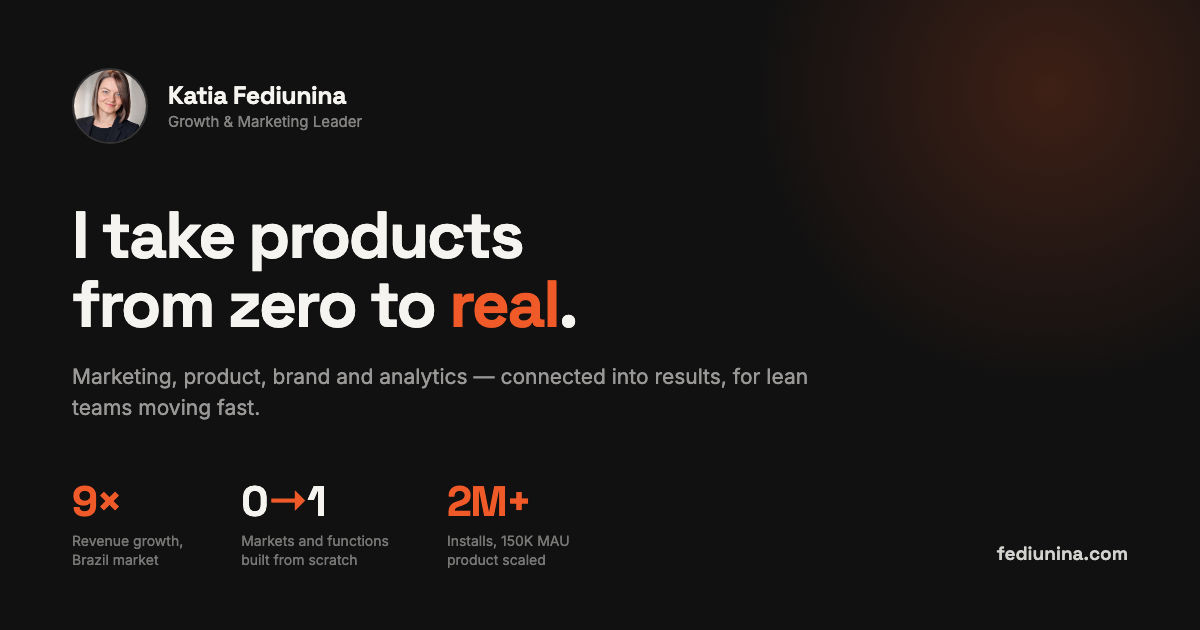
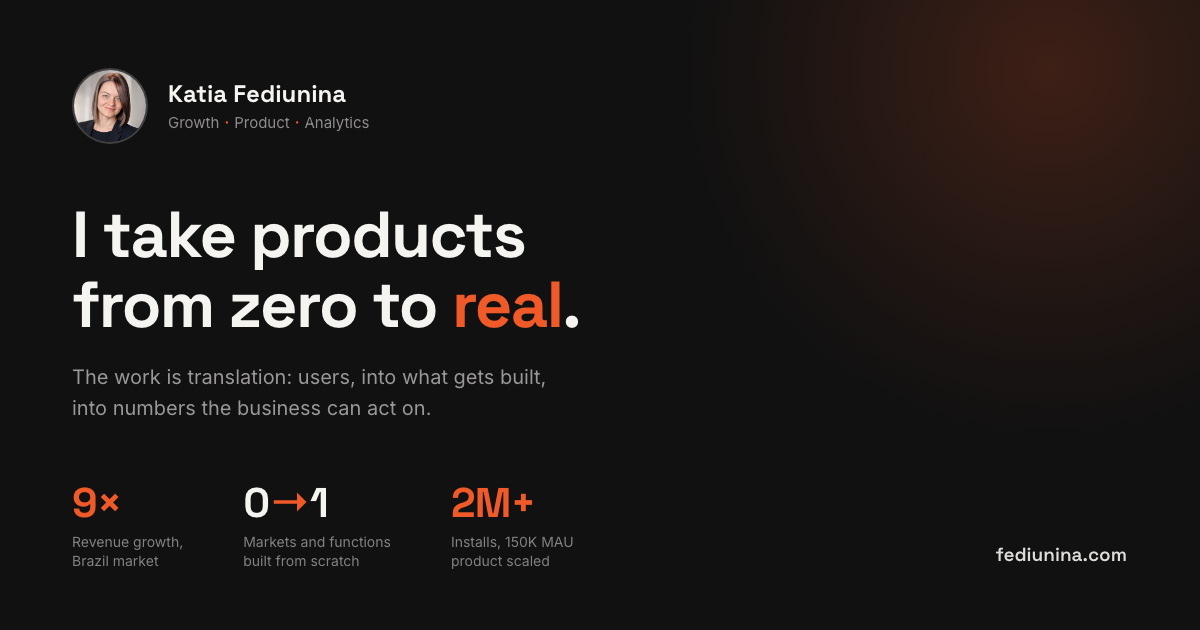
Sync site with September CV
- DocDoc: split +40% orders (web-to-app) and +20% revenue (clinic terms)
- Flowwow: checkout fix from UX testing, board reporting, categories, AEM vs SKAN, team
- Ornament: 40+ interviews, team of seven, US vs LATAM, three-way measurement, monetization
- Earlier roles named; Pinterest, BigQuery, SQL, Cursor, speaking added
- Independent entry links to the Consulting tab; CIS removed
- New og-image (Growth · Product · Analytics), cache-busted to v=3

diff --git a/index.html b/index.html
@@ -26,7 +26,7 @@
   <meta name="viewport" content="width=device-width, initial-scale=1.0">
   <title>Katia Fediunina · Growth, Product and Analytics</title>
   <link rel="canonical" href="https://www.fediunina.com/">
-  <meta name="description" content="Marketing, product and analytics in one person. 15+ years building consumer products in Brazil, LATAM, Europe and the CIS. I find what actually limits growth.">
+  <meta name="description" content="Marketing, product and analytics in one person. 15+ years building consumer products in Brazil, LATAM and Europe. I find what actually limits growth.">
 
   <script type="application/ld+json">
   {
@@ -50,7 +50,7 @@
   <meta property="og:url" content="https://www.fediunina.com/">
   <meta property="og:title" content="Katia Fediunina · Growth, Product and Analytics">
   <meta property="og:description" content="The work is translation: talking to users, turning that into what gets built, and turning that into numbers the business can act on. Market entry and product growth for global consumer products.">
-  <meta property="og:image" content="https://www.fediunina.com/og-image.png?v=2">
+  <meta property="og:image" content="https://www.fediunina.com/og-image.png?v=3">
   <meta property="og:image:width" content="1200">
   <meta property="og:image:height" content="630">
   <meta property="og:image:alt" content="Katia Fediunina. Growth, product and analytics. 9x revenue growth in Brazil, markets built from zero, 2M+ installs.">
@@ -58,7 +58,7 @@
   <meta name="twitter:card" content="summary_large_image">
   <meta name="twitter:title" content="Katia Fediunina · Growth, Product and Analytics">
   <meta name="twitter:description" content="The work is translation: users, into what gets built, into numbers the business can act on. Market entry and product growth for global consumer products.">
-  <meta name="twitter:image" content="https://www.fediunina.com/og-image.png?v=2">
+  <meta name="twitter:image" content="https://www.fediunina.com/og-image.png?v=3">
 
   <link rel="preconnect" href="https://fonts.googleapis.com">
   <link rel="preconnect" href="https://fonts.gstatic.com" crossorigin>
@@ -663,6 +663,7 @@
       margin-bottom: 4px;
     }
     .exp-date { font-size: 13px; color: var(--muted); margin-bottom: 14px; }
+    .exp-link { color: inherit; text-decoration: underline; text-underline-offset: 3px; }
     .exp-context { font-size: 14px; color: rgba(245,244,240,0.55); margin-bottom: 18px; line-height: 1.6; }
     .exp-points { list-style: none; }
     .exp-points li {
@@ -1059,7 +1060,7 @@
           </div>
           <div class="stat-block">
             <div class="stat-num"><span class="accent">+40%</span></div>
-            <div class="stat-label">in orders from the web-to-app journey, and +20% in revenue</div>
+            <div class="stat-label">in orders per user from web-to-app, and +20% in revenue after renegotiating clinic terms</div>
           </div>
         </div>
         <div class="hero-ctas">
@@ -1297,7 +1298,7 @@
       <div class="exp-block reveal">
         <h3 class="exp-role">Independent: growth consulting and interpreting</h3>
         <p class="exp-date">Jan 2026 to present · Porto</p>
-        <p class="exp-context">Growth and launch consulting for early-stage companies, and interpreting between Russian and Portuguese at notarial signings. Consulting is a side line I intend to keep. The main thread is the search for the next full-time role: one product, for at least two to three years, done properly rather than quickly.</p>
+        <p class="exp-context">Growth and launch consulting for early-stage companies, and interpreting between Russian and Portuguese at notaries and the civil registry. Looking for someone senior for a part-time engagement? <a href="#top" class="exp-link" data-open-tab="consulting">See how I consult →</a></p>
       </div>
 
       <div class="exp-block reveal">
@@ -1307,9 +1308,13 @@
         <ul class="exp-points">
           <li>9× revenue growth in 2024, then 3× growth in 2025 over 2024</li>
           <li>Expanded to 17 Brazilian states and grew the partner network to 450+ stores</li>
-          <li>Surfaced and helped fix an app UX issue around delivery-date filtering that lifted in-app revenue by ~40%, on a channel worth about 17% of total revenue</li>
+          <li>Owned Brazil end to end and reported to the Flowwow Brasil CEO, then directly to the global board (COO, CFO, CPO)</li>
+          <li>Users showed me the problem during UX testing: they picked a date and a gift, then learned at checkout the shop could not deliver. I took it to the product and dev teams to fix. In-app revenue rose by about 40%, on a channel worth about 17% of total revenue</li>
           <li>Recruited research participants who had actually bought flowers online in the previous six months, then built creative from the language of the heaviest buyers rather than from a brief</li>
           <li>Built localized positioning and tone that earned trust in a high-scam-perception market</li>
+          <li>Tested new categories, including plants, balloons, bento cakes and gift baskets (cestas de presentes). Cut the ones that did not hold and scaled the one that did: gift baskets grew to about 40% of GMV</li>
+          <li>Tested Meta AEM against SKAdNetwork on the web-to-app funnel and ran mostly AEM, which performed better at our volume, cross-checked against the deterministic web data</li>
+          <li>Managed 3-4 direct reports and three agencies, and directed the work of about ten people from the global SEO, analytics and design teams who did not report to me</li>
         </ul>
       </div>
 
@@ -1318,11 +1323,13 @@
         <p class="exp-date">Feb 2020 to Aug 2022 · Remote</p>
         <p class="exp-context">Digital health app, 2M+ installs and 150K MAU at peak. Built the growth function from scratch and expanded into positioning, monetization, and lifecycle.</p>
         <ul class="exp-points">
-          <li>Found the first audience by interviewing the heaviest users. When that audience ran out, switched to people who had never used the product and people who dropped off — and that switch is what produced the repositioning, from a niche audience (biohackers, pregnancy, chronic conditions) to mainstream wellbeing</li>
+          <li>Found the first audience by interviewing the heaviest users, 40+ interviews in all. When that audience ran out, switched to people who had never used the product and people who dropped off — and that switch is what produced the repositioning, from a niche audience (biohackers, pregnancy, chronic conditions) to mainstream wellbeing</li>
           <li>Same budget, 5× the users and a 4× reduction in CPA</li>
+          <li>Ran paid acquisition myself for about a year before the first hire, then built a team of seven and four external agencies</li>
+          <li>Tested the US and put the money into Latin America, where the unit economics could get to profitable. The US was more saturated, more expensive and more regulated for a health product</li>
           <li>When Apple's tracking rules changed, worked with the product team on the opt-in onboarding screen, because the quality of every marketing number now depended on a product surface I did not own</li>
-          <li>Built the foundation for subscription revenue and lifecycle engagement</li>
-          <li>Led the work based on 40+ user interviews. Managed a team of seven plus a freelancer, and four external agencies</li>
+          <li>Measured every campaign three ways: the ad platform, server-side conversion events and our own database, so no single number stood in for the whole</li>
+          <li>Owned monetization and activation: pricing experiments, subscription rollout across markets, activation moments and lifecycle push built on behaviour</li>
         </ul>
       </div>
 
@@ -1331,10 +1338,22 @@
         <p class="exp-date">Jul 2017 to Feb 2020 · Moscow</p>
         <p class="exp-context">Largest medtech platform in Russia for doctor search, booking, and telemedicine.</p>
         <ul class="exp-points">
-          <li>+40% in orders and +20% in revenue through cohort-based decision making and web-to-app optimization</li>
+          <li>Moved growth decisions from order counts to cohort and LTV logic. App users ordered far more, so I built the web-to-app funnel: +40% in orders per user over a cohort year</li>
+          <li>Most of those extra orders were repeat visits that earned almost nothing under the clinic agreements. Renegotiated the terms: +20% in revenue</li>
           <li>Ran brand campaigns with no install link, to measure the demand no ad platform reports. A large share of installs came from people who never clicked and searched the app by name instead — checked against our own booking records</li>
-          <li>Built the lifecycle and push programme, including an abandoned-search trigger measured against a held-out control group. It deliberately never named the specialty someone had searched for: it is a person's health, and being able to see something is not a reason to say it</li>
-          <li>Earlier mobile and digital roles drove 4M+ installs across paid and organic</li>
+          <li>Built the lifecycle and push programme, including an abandoned-search trigger tested against a held-out control group. Rolled winning tests out to the full audience, which grew repeat orders and cross-sales into other products such as telemedicine</li>
+          <li>Worked both sides of the marketplace, patients and clinics, and the launch of telemedicine, a category with almost no demand and a real need underneath</li>
+        </ul>
+      </div>
+
+      <div class="exp-block reveal">
+        <h3 class="exp-role">Earlier: Anews, Grape International, RBS Corporation</h3>
+        <p class="exp-date">2009 to 2017 · Moscow</p>
+        <p class="exp-context">4M+ installs across paid and organic channels.</p>
+        <ul class="exp-points">
+          <li>Anews, a news aggregator backed by TMT Investments: joined before launch and ran app marketing, ASO and paid acquisition. Launched in the US as a short test, then prioritised Latin America on unit economics</li>
+          <li>Grape International: hired as the single marketer to launch two messengers for the US market, Grape and then Ping. Coverage in TNW, and the first Facebook mobile ad campaigns</li>
+          <li>RBS Corporation, a digital agency: my one fully B2B role, marketing the agency's services and SaaS tools such as Webvisor. Started in PR as press secretary</li>
         </ul>
       </div>
 
@@ -1392,6 +1411,7 @@
             <span class="tag">Google</span>
             <span class="tag">Apple Search Ads</span>
             <span class="tag">TikTok</span>
+            <span class="tag">Pinterest</span>
             <span class="tag">ASO</span>
             <span class="tag">SEO</span>
             <span class="tag">CRM/push</span>
@@ -1416,7 +1436,9 @@
             <span class="tag">Jira</span>
             <span class="tag">Confluence</span>
             <span class="tag">Figma</span>
-            <span class="tag">SQL with AI</span>
+            <span class="tag">BigQuery</span>
+            <span class="tag">SQL</span>
+            <span class="tag">Cursor</span>
           </div>
         </div>
 
@@ -1433,6 +1455,9 @@
       </div>
 
       <p class="languages reveal">
+        <strong>Speaking:</strong> ASO Academy lecture on app localisation for LATAM &nbsp;·&nbsp; i-COM 2016 &nbsp;·&nbsp; Mobile Marketing Conference 2015
+      </p>
+      <p class="languages reveal" style="margin-top:0;border-top:none;padding-top:14px">
         <strong>Languages:</strong> English (first language of my translation degree; my working language since I started) &nbsp;·&nbsp; Portuguese (C1, DAPLE certified; worked in it daily) &nbsp;·&nbsp; Russian (native) &nbsp;·&nbsp; Spanish (second language of the same degree; interviewed and hired in it)
       </p>
       <p class="languages reveal" style="margin-top:0;border-top:none;padding-top:14px">
@@ -1536,6 +1561,13 @@
         if (e.key === 'Enter' || e.key === ' ') { e.preventDefault(); activateTab(btn); }
         if (e.key === 'ArrowRight') { e.preventDefault(); focusNextTab(btn, 1); }
         if (e.key === 'ArrowLeft')  { e.preventDefault(); focusNextTab(btn, -1); }
+      });
+    });
+
+    document.querySelectorAll('[data-open-tab]').forEach(link => {
+      link.addEventListener('click', () => {
+        const btn = document.querySelector('.role-btn[data-tab="' + link.dataset.openTab + '"]');
+        if (btn) activateTab(btn);
       });
     });
 
